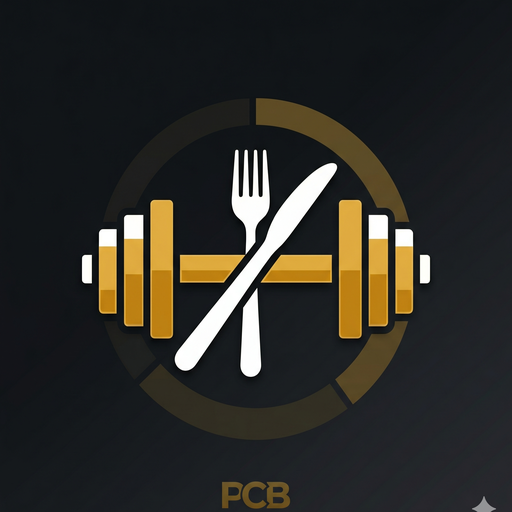
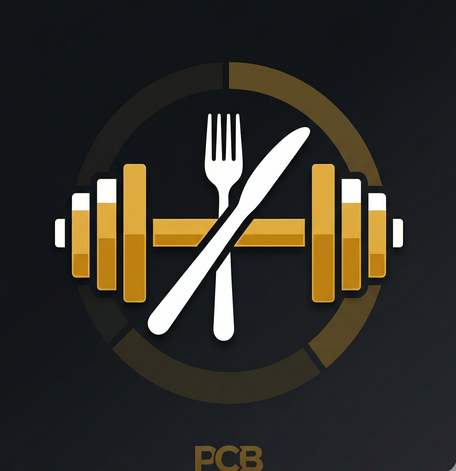
feat: barras de macros a dos colores (base vs elegido) con leyenda
- calculateSelectedMacros() ahora devuelve {base, chosen, total}
- Cada barra de macro muestra segmento base (verdura+AOVE+fruta) y elegido
- Breakdown de kcal: 'XXX base + YYY elegido'
- Detalle por macro: 'Xg base / Yg elegido'
- Leyenda visual explicativa para el usuario final

diff --git a/css/styles.css b/css/styles.css
@@ -963,6 +963,75 @@ body {
 .carbs-fill { background: linear-gradient(90deg, #E8C44A, #D4A017); }
 .fat-fill { background: linear-gradient(90deg, #7BB3E0, #5B9BD5); }
 
+/* Two-color split bar */
+.macro-bar-split {
+    display: flex;
+    height: 8px;
+    background: var(--macro-bar-bg);
+    border-radius: 4px;
+    overflow: hidden;
+}
+
+.macro-bar-base {
+    height: 100%;
+    background: rgba(255,255,255,0.18);
+    transition: width 0.4s cubic-bezier(0.4, 0, 0.2, 1);
+}
+
+.macro-bar-chosen {
+    height: 100%;
+    transition: width 0.4s cubic-bezier(0.4, 0, 0.2, 1);
+}
+
+.macro-bar-detail {
+    display: flex;
+    justify-content: space-between;
+    font-size: 0.68rem;
+    color: var(--text-muted);
+    margin-top: 2px;
+}
+
+/* Nutrition legend */
+.nutrition-legend {
+    display: flex;
+    gap: 16px;
+    margin-top: 10px;
+    padding-top: 8px;
+    border-top: 1px solid var(--border);
+    flex-wrap: wrap;
+}
+
+.legend-item {
+    display: flex;
+    align-items: center;
+    gap: 6px;
+    font-size: 0.75rem;
+    color: var(--text-secondary);
+}
+
+.legend-swatch {
+    width: 14px;
+    height: 8px;
+    border-radius: 3px;
+    flex-shrink: 0;
+}
+
+.legend-base {
+    background: rgba(255,255,255,0.18);
+    border: 1px solid rgba(255,255,255,0.3);
+}
+
+.legend-chosen {
+    background: linear-gradient(90deg, #E8899E, #D87093);
+}
+
+/* Kcal breakdown label */
+.nutrition-kcal-breakdown {
+    font-size: 0.72rem;
+    color: var(--text-muted);
+    margin-left: 6px;
+}
+
 /* ========== SUPPLEMENTS ========== */
 .supplements-grid {
     display: grid;

diff --git a/js/app.js b/js/app.js
@@ -125,33 +125,31 @@ function getRecommendedKcal(tdee, goal) {
 // ============================================================
 function calculateSelectedMacros() {
     var ratio = getRatio();
-    var t = { kcal:0, protein:0, carbs:0, fat:0 };
-    var has = false;
+    var base = { kcal:0, protein:0, carbs:0, fat:0 };
+    var chosen = { kcal:0, protein:0, carbs:0, fat:0 };
 
     if (selections.breakfast !== null) {
-        has = true;
         var m = breakfastOptions[selections.breakfast].macros;
-        t.kcal += m[0]*ratio; t.protein += m[1]*ratio; t.carbs += m[2]*ratio; t.fat += m[3]*ratio;
+        chosen.kcal += m[0]*ratio; chosen.protein += m[1]*ratio; chosen.carbs += m[2]*ratio; chosen.fat += m[3]*ratio;
     }
 
     function addFood(data, idx) {
-        if (idx === null) return; has = true;
+        if (idx === null) return;
         var item = data[idx]; var g = scaleAmount(item.base, ratio);
-        t.kcal += item.n[0]*g/100; t.protein += item.n[1]*g/100; t.carbs += item.n[2]*g/100; t.fat += item.n[3]*g/100;
+        chosen.kcal += item.n[0]*g/100; chosen.protein += item.n[1]*g/100; chosen.carbs += item.n[2]*g/100; chosen.fat += item.n[3]*g/100;
     }
     function addExtras() {
         var vg = scaleAmount(200, ratio); var om = scaleAmount(EXTRAS_OIL_ML, ratio);
-        t.kcal += extrasNutr.verduras[0]*vg/100; t.protein += extrasNutr.verduras[1]*vg/100; t.carbs += extrasNutr.verduras[2]*vg/100; t.fat += extrasNutr.verduras[3]*vg/100;
-        t.kcal += extrasNutr.aceite[0]*om/100; t.fat += extrasNutr.aceite[3]*om/100;
-        t.kcal += extrasNutr.fruta[0]; t.protein += extrasNutr.fruta[1]; t.carbs += extrasNutr.fruta[2]; t.fat += extrasNutr.fruta[3];
+        base.kcal += extrasNutr.verduras[0]*vg/100; base.protein += extrasNutr.verduras[1]*vg/100; base.carbs += extrasNutr.verduras[2]*vg/100; base.fat += extrasNutr.verduras[3]*vg/100;
+        base.kcal += extrasNutr.aceite[0]*om/100; base.fat += extrasNutr.aceite[3]*om/100;
+        base.kcal += extrasNutr.fruta[0]; base.protein += extrasNutr.fruta[1]; base.carbs += extrasNutr.fruta[2]; base.fat += extrasNutr.fruta[3];
     }
 
     addFood(lunchCarbs, selections.lunchCarb); addFood(lunchProteins, selections.lunchProtein);
     addExtras();
     addFood(dinnerCarbs, selections.dinnerCarb); addFood(dinnerProteins, selections.dinnerProtein);
     addExtras();
-    has = true;
-    return t;
+    return { base: base, chosen: chosen, total: { kcal: base.kcal+chosen.kcal, protein: base.protein+chosen.protein, carbs: base.carbs+chosen.carbs, fat: base.fat+chosen.fat } };
 }
 
 // ============================================================
@@ -243,12 +241,17 @@ function updateKcalWarning() {
 
 function renderNutritionSummary() {
     var container = document.getElementById('nutrition-summary');
-    var macros = calculateSelectedMacros();
-    if (!macros) { container.innerHTML=''; container.style.display='none'; return; }
+    var data = calculateSelectedMacros();
+    var macros = data.total;
     container.style.display='';
     var kcal=Math.round(macros.kcal), p=Math.round(macros.protein), c=Math.round(macros.carbs), f=Math.round(macros.fat);
+    var bp=Math.round(data.base.protein), bc=Math.round(data.base.carbs), bf=Math.round(data.base.fat), bk=Math.round(data.base.kcal);
     var tg=p+c+f;
     var pp=tg>0?Math.round(p/tg*100):0, cp=tg>0?Math.round(c/tg*100):0, fp=tg>0?100-pp-cp:0;
+    // Base percentages within each macro bar
+    var bpPct = p>0 ? Math.round(bp/p*100) : 0;
+    var bcPct = c>0 ? Math.round(bc/c*100) : 0;
+    var bfPct = f>0 ? Math.round(bf/f*100) : 0;
     var meals=[];
     if (selections.breakfast!==null) meals.push('Desayuno');
     if (selections.lunchCarb!==null||selections.lunchProtein!==null) meals.push('Almuerzo');
@@ -262,15 +265,30 @@ function renderNutritionSummary() {
         if (selections.lunchProtein === null) missingItems.push('Almuerzo: proteína');
         if (selections.dinnerCarb === null) missingItems.push('Cena: hidrato');
         if (selections.dinnerProtein === null) missingItems.push('Cena: proteína');
-        missingHtml = '<div class="nutrition-missing">⚠️ Falta: ' + missingItems.join(' · ') + '</div>';
+        missingHtml = '<div class="nutrition-missing">\u26a0\ufe0f Falta: ' + missingItems.join(' \u00b7 ') + '</div>';
     }
-    container.innerHTML = '<div class="nutrition-header"><h3>📊 Resumen Nutricional Estimado</h3><span class="nutrition-meals">'+meals.join(' + ')+(complete?'':' · Incompleto')+'</span></div>' + missingHtml +
-        '<div class="nutrition-body"><div class="nutrition-kcal"><span class="nutrition-kcal-number">'+kcal+'</span><span class="nutrition-kcal-unit">kcal</span></div>' +
+    container.innerHTML = '<div class="nutrition-header"><h3>\ud83d\udcca Resumen Nutricional Estimado</h3><span class="nutrition-meals">'+meals.join(' + ')+(complete?'':' \u00b7 Incompleto')+'</span></div>' + missingHtml +
+        '<div class="nutrition-body">' +
+        '<div class="nutrition-kcal"><span class="nutrition-kcal-number">'+kcal+'</span><span class="nutrition-kcal-unit">kcal</span><span class="nutrition-kcal-breakdown">('+bk+' base + '+(kcal-bk)+' elegido)</span></div>' +
         '<div class="nutrition-macros">' +
-        '<div class="macro-bar-group"><div class="macro-info"><span class="macro-dot protein-dot"></span><span class="macro-name">Proteínas</span><strong>'+p+'g</strong><span class="macro-pct">'+pp+'%</span></div><div class="macro-bar"><div class="macro-bar-fill protein-fill" style="width:'+pp+'%"></div></div></div>' +
-        '<div class="macro-bar-group"><div class="macro-info"><span class="macro-dot carbs-dot"></span><span class="macro-name">Carbohidratos</span><strong>'+c+'g</strong><span class="macro-pct">'+cp+'%</span></div><div class="macro-bar"><div class="macro-bar-fill carbs-fill" style="width:'+cp+'%"></div></div></div>' +
-        '<div class="macro-bar-group"><div class="macro-info"><span class="macro-dot fat-dot"></span><span class="macro-name">Grasas</span><strong>'+f+'g</strong><span class="macro-pct">'+fp+'%</span></div><div class="macro-bar"><div class="macro-bar-fill fat-fill" style="width:'+fp+'%"></div></div></div>' +
-        '</div></div>';
+        renderMacroBar('Prote\u00ednas', 'protein', p, pp, bp, bpPct) +
+        renderMacroBar('Carbohidratos', 'carbs', c, cp, bc, bcPct) +
+        renderMacroBar('Grasas', 'fat', f, fp, bf, bfPct) +
+        '</div>' +
+        '<div class="nutrition-legend"><span class="legend-item"><span class="legend-swatch legend-base"></span>Base (verdura + AOVE + fruta)</span><span class="legend-item"><span class="legend-swatch legend-chosen"></span>Tu elecci\u00f3n (comidas)</span></div>' +
+        '</div>';
+}
+
+function renderMacroBar(name, cls, total, pct, baseG, basePct) {
+    var chosenPct = 100 - basePct;
+    return '<div class="macro-bar-group">' +
+        '<div class="macro-info"><span class="macro-dot '+cls+'-dot"></span><span class="macro-name">'+name+'</span><strong>'+total+'g</strong><span class="macro-pct">'+pct+'%</span></div>' +
+        '<div class="macro-bar-split">' +
+        '<div class="macro-bar-base" style="width:'+basePct+'%"></div>' +
+        '<div class="macro-bar-chosen '+cls+'-fill" style="width:'+chosenPct+'%"></div>' +
+        '</div>' +
+        '<div class="macro-bar-detail"><span>'+baseG+'g base</span><span>'+(total-baseG)+'g elegido</span></div>' +
+        '</div>';
 }
 
 function renderAll() {
@@ -635,7 +653,7 @@ function renderValidator() {
     if (allDone) {
         bar.classList.add('complete');
         var macros = calculateSelectedMacros();
-        var kcal = macros ? Math.round(macros.kcal) : currentKcal;
+        var kcal = macros ? Math.round(macros.total.kcal) : currentKcal;
         bar.innerHTML = '<div class="validator-complete">' +
             '<span>✅ Plan completo</span>' +
             '<span class="vc-kcal">— ' + kcal + ' kcal</span>' +